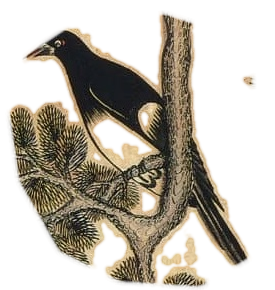
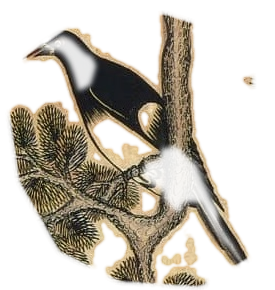
까치 머리 꼬리 리깅

Changed region(s): [[0.4945, 0.4966, 0.9018, 0.9], [0.1455, 0.0931, 0.3782, 0.3414]]

diff --git a/src/views/MinhwaHomeView.vue b/src/views/MinhwaHomeView.vue
@@ -154,7 +154,22 @@ const chapters = [
     snow: true,
     cuts: [
       // 까치 — 솔가지에 앉아 까딱인다
-      { src: cut('tiger_magpie'), left: '64%', top: '8%', w: '24%', depth: 10, ox: 14, oy: -14, ds: 0.03, idle: 'bob', z: 1 },
+      {
+        src: cut('tiger_magpie'),
+        left: '64%',
+        top: '8%',
+        w: '24%',
+        depth: 10,
+        ox: 14,
+        oy: -14,
+        ds: 0.03,
+        idle: 'bob',
+        z: 1,
+        parts: [
+          { src: cut('magpie_head'), left: '0%', top: '6.9%', w: '40%', anim: 'p-head', origin: '85% 80%' },
+          { src: cut('magpie_tail'), left: '47.3%', top: '46.6%', w: '52.7%', anim: 'p-tail', origin: '10% 15%' },
+        ],
+      },
       // 호랑이 — 개별로 숨쉬며 앞으로 나온다
       // 호랑이 — 몸은 숨쉬고, 머리·꼬리·앞발은 저마다 따로 움직인다
       {
